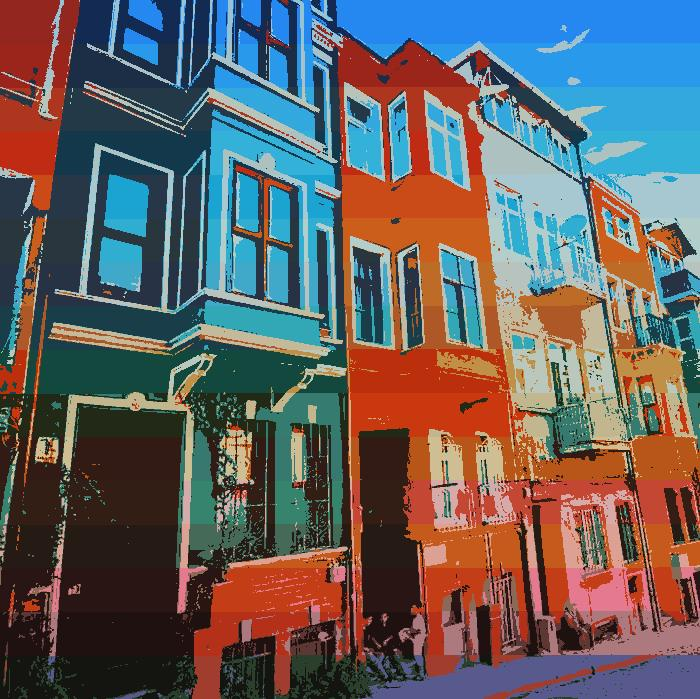
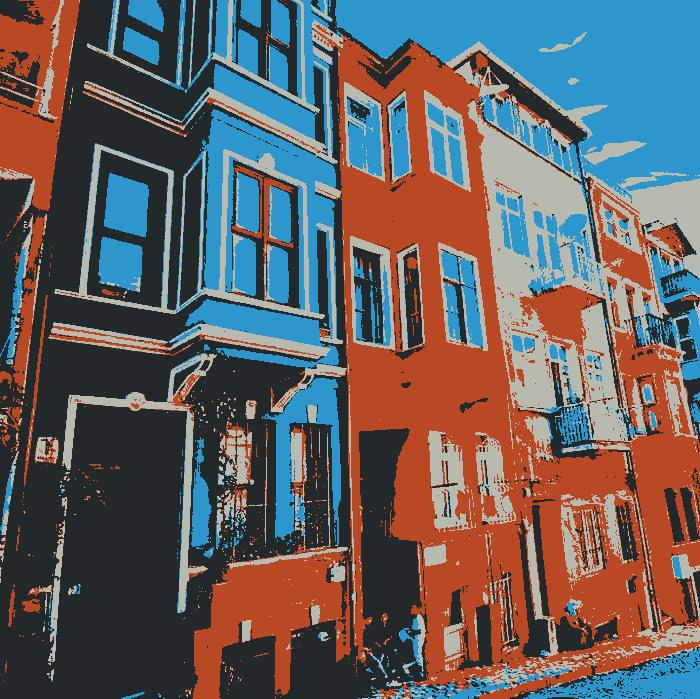
Final Working Version

diff --git a/gui.py b/gui.py
@@ -1,7 +1,7 @@
 import tkinter as tk
 from tkinter import filedialog, messagebox
 from PIL import Image, ImageTk
-import image_processor as image_processor
+import image_processor
 from kmeans_clustering import KMeansClustering
 import threading
 
@@ -15,6 +15,8 @@ class ImageQuantizationApp:
         self.height = None
         self.width = None
         self.quantised_pixels = None
+        self.pixels = None
+        self.processing_label = None
         self.setup_ui()
 
     def setup_ui(self):
@@ -69,24 +71,42 @@ class ImageQuantizationApp:
             return
 
         if self.pixels is not None:
-            self.processing_label = tk.Label(self.root, text="Processing...", font=('Arial', 12))
-            self.processing_label.place(relx=0.5, rely=0.5, anchor="center")
+            self.show_processing_message()
+            self.disable_buttons()
 
             thread = threading.Thread(target=self.run_quantisation, args=(num_colours,))
             thread.start()
         else:
             messagebox.showerror("Error", "Failed to load the image.")
 
+    def show_processing_message(self):
+        self.processing_label = tk.Label(self.root, text="Processing...", font=('Arial', 12), fg="blue")
+        self.processing_label.place(relx=0.5, rely=0.4, anchor="center")
+
+    def hide_processing_message(self):
+        if self.processing_label:
+            self.processing_label.destroy()
+            self.processing_label = None
+
+    def disable_buttons(self):
+        self.browse_button.config(state="disabled")
+        self.quantise_button.config(state="disabled")
+        self.save_button.config(state="disabled")
+
+    def enable_buttons(self):
+        self.browse_button.config(state="normal")
+        self.quantise_button.config(state="normal")
+        self.save_button.config(state="normal")
+
     def run_quantisation(self, num_colours):
         kmeans = KMeansClustering(num_clusters=num_colours)
-        self.quantised_pixels = kmeans.fit(self.pixels.reshape(-1, 3))
-        self.root.after(0, self.remove_processing_and_show_image)
+        self.quantised_pixels = kmeans.fit(self.pixels)
+        self.root.after(0, self.show_quantised_result)
 
-    def remove_processing_and_show_image(self):
-        if hasattr(self, 'processing_frame'):
-            self.processing_frame.grid_forget()
+    def show_quantised_result(self):
+        self.hide_processing_message()
+        self.enable_buttons()
         self.display_image(self.quantised_pixels, self.quantised_label)
-        self.processing_label.destroy()
 
     def save_quantised_image(self):
         if not self.image_path:
@@ -111,7 +131,7 @@ class ImageQuantizationApp:
             label.configure(image=image)
             label.image = image
         else:
-            messagebox.showerror("Error", "Failed to load the image.")
+            messagebox.showerror("Error", "Failed to create image from pixels.")
 
 
 def run_gui():

diff --git a/kmeans_clustering.py b/kmeans_clustering.py
@@ -1,13 +1,5 @@
 import numpy as np
 from sklearn.cluster import MiniBatchKMeans
-import multiprocessing
-
-
-def _quantise_chunk(chunk, num_clusters):
-    """Helper function for multiprocessing."""
-    model = MiniBatchKMeans(n_clusters=num_clusters, random_state=0)
-    labels = model.fit_predict(chunk)
-    return model.cluster_centers_[labels]
 
 
 class KMeansClustering:
@@ -16,13 +8,17 @@ class KMeansClustering:
 
     def fit(self, pixels):
         """
-        Quantise pixels using MiniBatchKMeans with parallel processing.
+        Quantise pixels using MiniBatchKMeans trained on a sampled subset.
         """
-        cpu_count = multiprocessing.cpu_count()
-        chunks = np.array_split(pixels, cpu_count)
+        pixels = pixels.reshape(-1, 3)
+        sample_size = min(10000, len(pixels))
+        sample_indices = np.random.choice(len(pixels), size=sample_size, replace=False)
+        sample_pixels = pixels[sample_indices]
 
-        with multiprocessing.Pool(cpu_count) as pool:
-            results = pool.starmap(_quantise_chunk, [(chunk, self.num_clusters) for chunk in chunks])
+        model = MiniBatchKMeans(n_clusters=self.num_clusters, random_state=42)
+        model.fit(sample_pixels)
 
-        quantised_pixels = np.vstack(results)
+        labels = model.predict(pixels)
+        quantised_pixels = model.cluster_centers_[labels]
+
         return quantised_pixels
